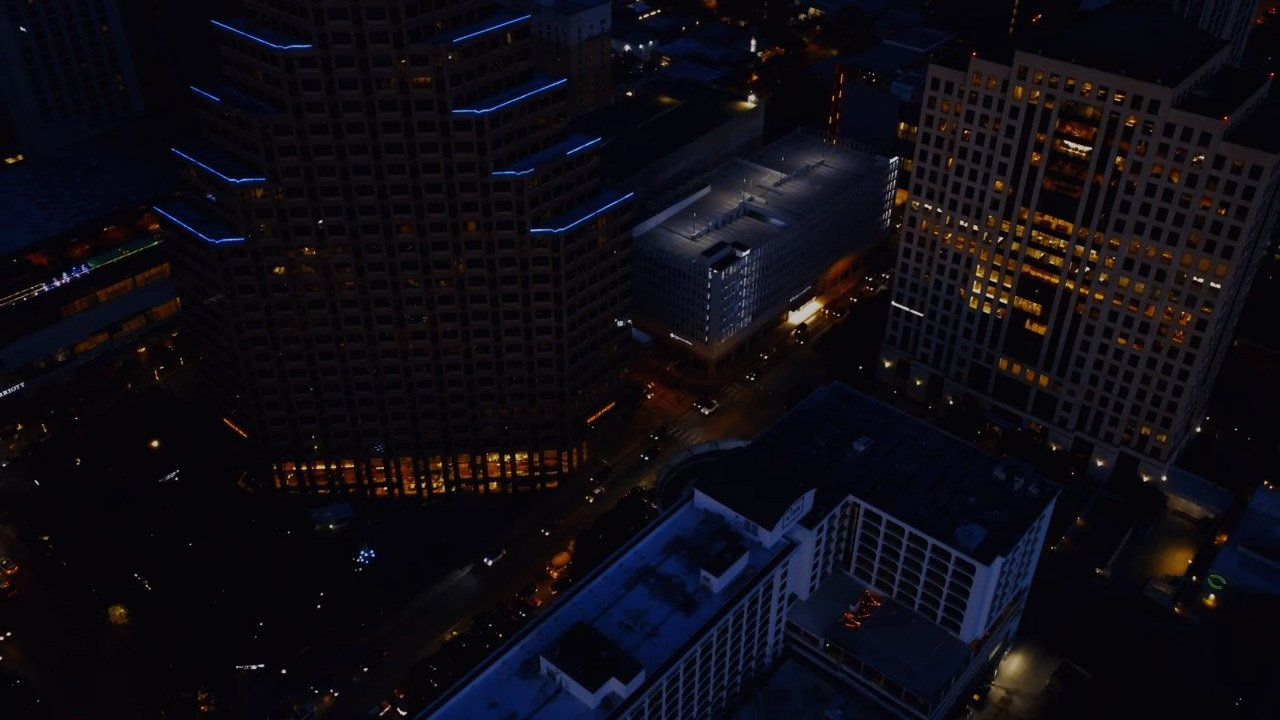
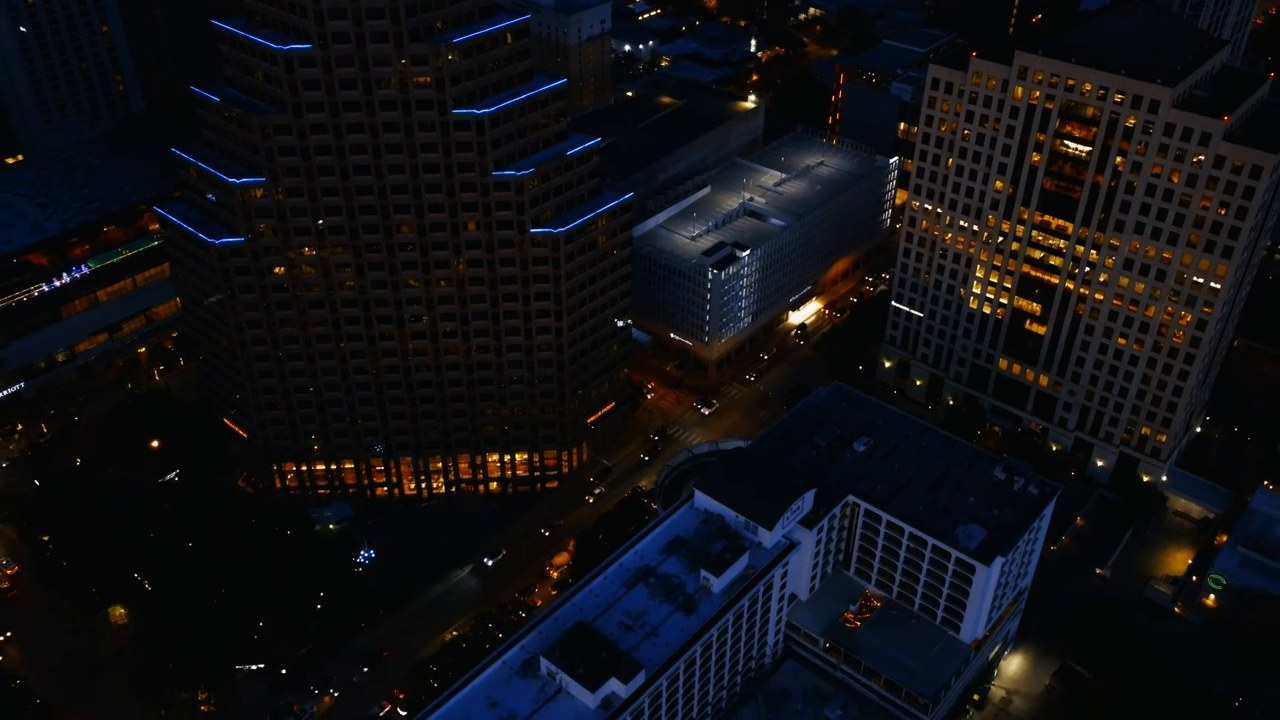
Remove violet tint from hero video overlay and restore natural colors.

diff --git a/css/styles.css b/css/styles.css
@@ -320,7 +320,6 @@ h1, h2, h3, p, ul, ol, blockquote, figure {
 
 .hero__video {
   z-index: 1;
-  filter: brightness(0.7) saturate(0.8) contrast(1.08);
 }
 
 @media (prefers-reduced-motion: reduce) {
@@ -332,11 +331,12 @@ h1, h2, h3, p, ul, ol, blockquote, figure {
 .hero__veil {
   position: absolute;
   inset: 0;
-  z-index: 2;
-  background:
-    linear-gradient(180deg, rgba(17, 17, 20, 0.62) 0%, rgba(17, 17, 20, 0.38) 38%, rgba(17, 17, 20, 0.94) 100%),
-    linear-gradient(90deg, rgba(var(--accent-rgb), 0.42) 0%, rgba(var(--accent-rgb), 0.16) 48%, transparent 72%),
-    linear-gradient(0deg, rgba(26, 26, 31, 0.35), rgba(26, 26, 31, 0.35));
+  background: linear-gradient(
+    180deg,
+    rgba(17, 17, 20, 0.35) 0%,
+    rgba(17, 17, 20, 0.12) 42%,
+    rgba(17, 17, 20, 0.82) 100%
+  );
 }
 
 .hero__content {

diff --git a/index.html b/index.html
@@ -8,7 +8,7 @@
   <link rel="preconnect" href="https://fonts.googleapis.com" />
   <link rel="preconnect" href="https://fonts.gstatic.com" crossorigin />
   <link href="https://fonts.googleapis.com/css2?family=Bricolage+Grotesque:opsz,wght@12..96,500;12..96,700;12..96,800&family=Public+Sans:ital,wght@0,400;0,500;0,600;1,400&display=swap" rel="stylesheet" />
-  <link rel="stylesheet" href="/css/styles.css?v=28" />
+  <link rel="stylesheet" href="/css/styles.css?v=29" />
   <link rel="icon" href="assets/favicon.png" type="image/png" />
 </head>
 <body>
